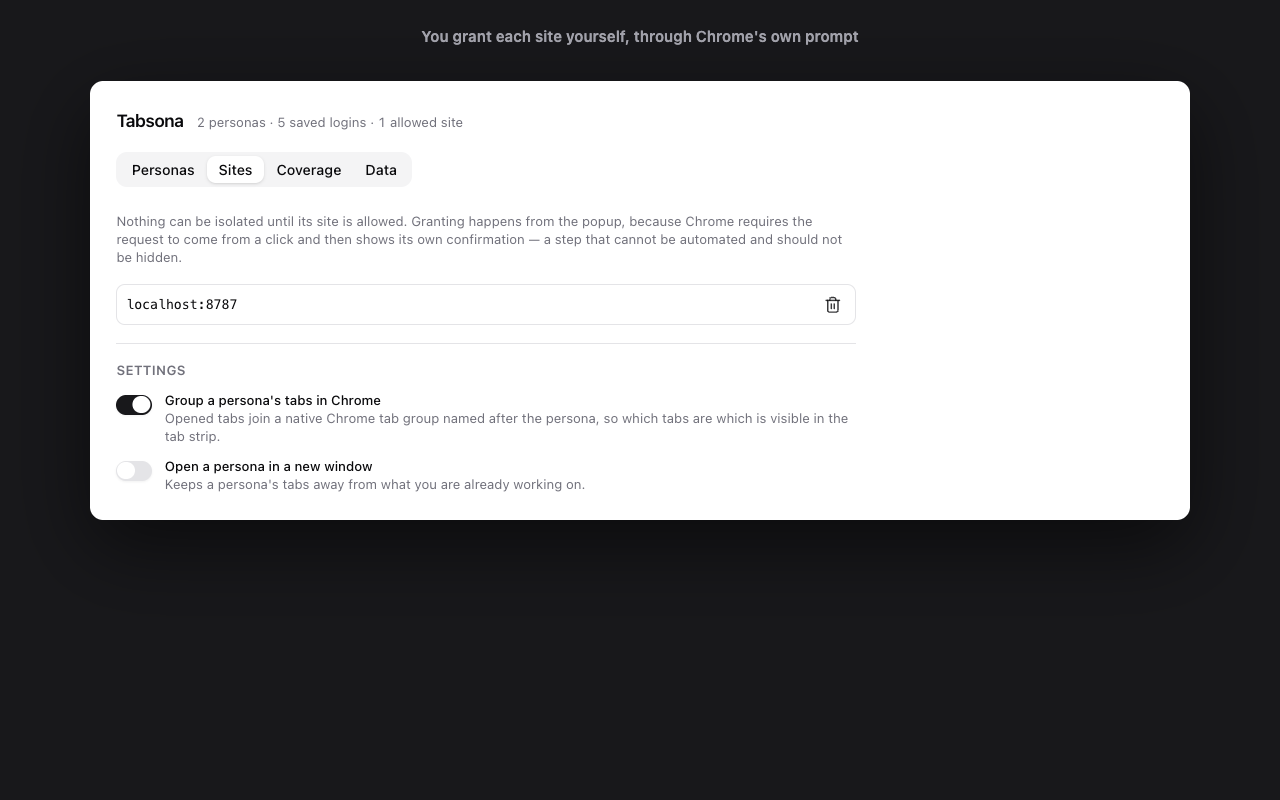
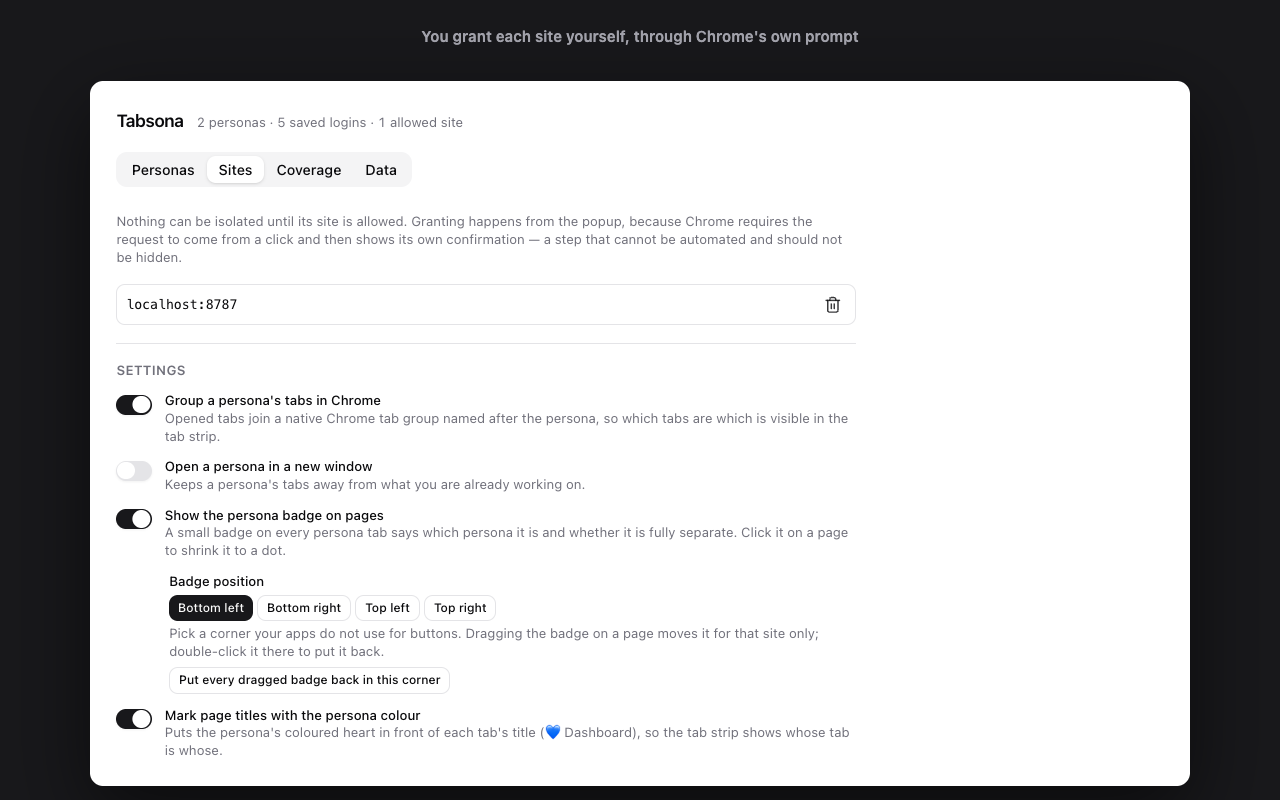
docs: fold today's changes into 0.2.0, refresh screenshots
Move the Unreleased CHANGELOG entries into 0.2.0, which was resubmitted to the Chrome Web Store with them; regenerate the README screenshots from the current build; record the Store release procedure in lore.

Changed region(s): [[0.0625, 0.625, 0.9375, 1.0]]

diff --git a/CHANGELOG.md b/CHANGELOG.md
@@ -6,22 +6,14 @@ The format is based on [Keep a Changelog](https://keepachangelog.com/en/1.1.0/),
 
 ## [Unreleased]
 
+## [0.2.0] - 2026-10-04
+
 ### Added
 
 - **The in-page persona badge can be moved, shrunk and switched off.** It now sits bottom-left by default (top-right covered apps' header buttons), a click shrinks it to a dot and back, and Options → Settings has "Show the persona badge on pages" and a corner picker. Changes apply to open tabs immediately.
 - **Drag the badge anywhere.** The spot is remembered per site (apps put their buttons in different places) and survives reloads; double-click puts it back in the corner, and Options can reset every site at once.
 - **Pick each persona's colour** from nine swatches — one per Chrome tab-group colour, so the badge, the popup dot and the tab group always match. Open tabs and their tab group recolour immediately.
 - **Page titles carry the persona's colour** as a heart in front of the title (`💙 Dashboard`), kept in place when the app changes its title; switchable in Options.
-
-### Fixed
-
-- A persona's description, and a saved login's page title, are cut off to fit the popup; hovering (or tabbing to) a cut-off line now opens a card with the whole text. Lines that fit stay quiet.
-- Session rows show the full site address (`acmehub.localhost:3000`) on its own line; the page title moved to the line below, where it is the part that gets cut off. Persona names likewise get the whole first line, with the site and tab counts underneath.
-
-## [0.2.0] - 2026-10-04
-
-### Added
-
 - **IndexedDB kept per persona.** The page shim translates database names to `<session>::<name>` (`open`, `deleteDatabase`, `databases()`, `IDBDatabase.name`), so offline-first apps keep separate data per persona. Databases opened inside a worker stay shared and the badge reports it.
 - **A popup that explains itself.** Every button shows what it will do and what it does to your normal browser login, on hover or keyboard focus. "Add to persona" asks how (signed out, move or copy) before which persona, footer actions carry words instead of bare icons, and a three-step guide appears until the first persona exists.
 - **Styled confirmations** before deleting a persona, forgetting a login or replacing a saved login, and a confirmation line after actions that are otherwise silent.
@@ -29,6 +21,8 @@ The format is based on [Keep a Changelog](https://keepachangelog.com/en/1.1.0/),
 
 ### Fixed
 
+- A persona's description, and a saved login's page title, are cut off to fit the popup; hovering (or tabbing to) a cut-off line now opens a card with the whole text. Lines that fit stay quiet.
+- Session rows show the full site address (`acmehub.localhost:3000`) on its own line; the page title moved to the line below, where it is the part that gets cut off. Persona names likewise get the whole first line, with the site and tab counts underneath.
 - Opening a persona on an app that redirects signed-out users (AuthKit, OAuth) no longer lands on its login page. Cookie rules were computed from the URL the tab was on, which is `about:blank` when it is bound, so the first request left without the cookie.
 - A persona's cookies are no longer sent to every host its page loads. Rules are now scoped per host and cookie path, and hosts the persona holds nothing for receive no cookie at all.
 - "Add website" now adds the address you typed; the popup used the current tab's site instead and the library page did nothing.
